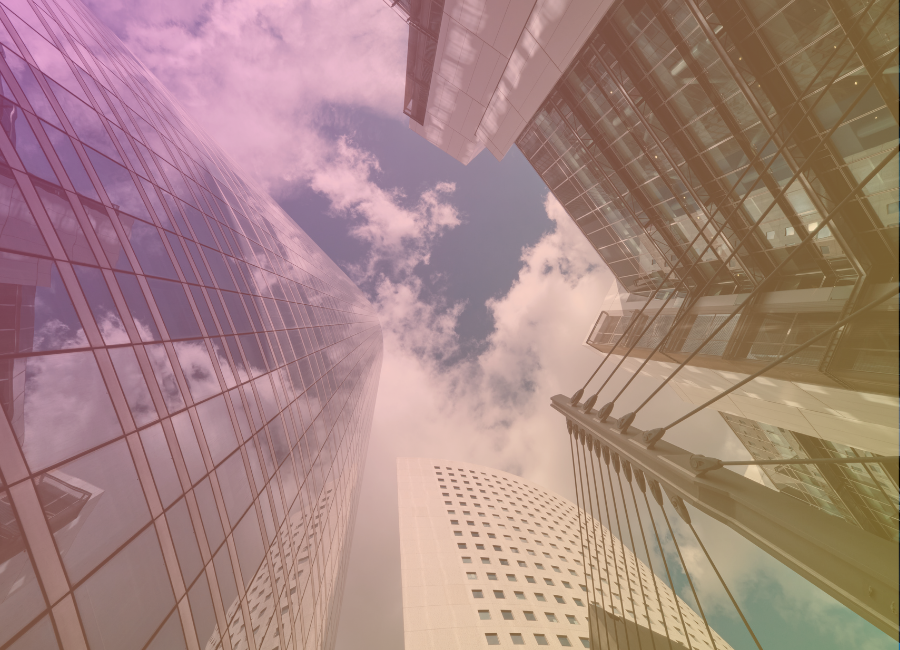
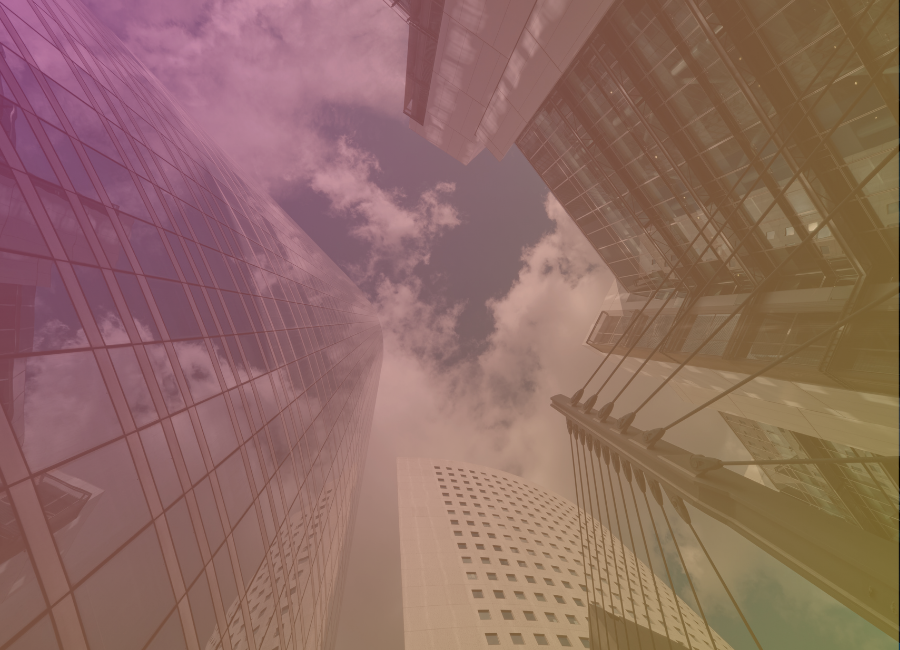
SIC V.0.1.3 { Configuração de Autenticação tela de Login }

diff --git a/frontend/src/pages/Signin/index.js b/frontend/src/pages/Signin/index.js
@@ -1,9 +1,12 @@
 import React from "react";
 import styled from "styled-components";
-import Background from "../../imagens/background2.png"
-import { Row, Col, Form, Button } from "react-bootstrap";
+import Background from "../../imagens/background3.png"
+import { Row, Col, Form, Button, Modal } from "react-bootstrap";
 import { faRightToBracket, faUserLock } from "@fortawesome/free-solid-svg-icons";
 import { FontAwesomeIcon } from "@fortawesome/react-fontawesome";
+import { useNavigate } from "react-router-dom";
+import authService from "../../services/authServices";
+import { useState } from "react";
 
 const ColLeft = styled(Col)`
     background-image: url(${Background});
@@ -18,7 +21,7 @@ const ColLeft = styled(Col)`
 
 const StyledH1 = styled.h1`
     font-weight: 700;
-    color: hsl(24, 70%, 50%);
+    color: #ff9100f5;
     font-size: 70px;
 `
 
@@ -42,7 +45,6 @@ const StyledfaRightToBracket = styled(FontAwesomeIcon)`
     margin-right: 10px
 `;
 
-
 const StyledFormControl= styled(Form.Control)`
     border-left: none;
     border-right: none;
@@ -52,7 +54,7 @@ const StyledFormControl= styled(Form.Control)`
 `;
 
 const StyledButton = styled(Button)`
-    background: hsl(24, 70%, 50%);
+    background: #ff9100f5;
     border: 0;
     &:hover{
         background: rgb(91, 0, 177);
@@ -64,7 +66,37 @@ const StyledButton = styled(Button)`
     }
 `;
 
+const StyledButtonModal = styled(Button)`
+    background: #ff9100f5;
+`;
+
 function SignIn() {
+    const navigate = useNavigate();
+    const [showModal, setShowModal] = useState(false);
+    const [email, setEmail] = useState('');
+    const [password, setPassword] = useState('');
+
+    async function handleSignIn(){
+        //chamada API
+        //Se Retorno ok, direciona para home
+        //Se não exibe mensagem para o usuario
+
+        //objeto promise
+        // axios.get('https://api.github.com/users/luizcorsini')
+        //     .then(response =>{
+        //         console.log(response.data)
+        //     })
+        //     .catch(error =>{
+        //         console.log('Ocorreu erro')
+        //     })
+        try{
+            await authService.SignIn(email, password);
+            navigate('/home');
+        } catch (error){
+            setShowModal(true);
+        }
+
+    };
     return (
         <StyleRow>
             <ColLeft 
@@ -79,11 +111,14 @@ function SignIn() {
 
                 <Form as={Col} md={8}>
                 <Row className="justify-content-md-center">
-                    <FontAwesomeIcon style={{color:'hsl(24, 70%, 50%)'}} icon={faUserLock} className="mb-3" as={Col} size="2x" md="auto"  />
+                    <FontAwesomeIcon style={{color:'#ff9100f5'}} icon={faUserLock} className="mb-3" as={Col} size="2x" md="auto"  />
                 </Row>
                     <Form.Group className="mb-3" controlId="formBasicEmail">
                         <Form.Label>E-mail</Form.Label>
-                        <StyledFormControl type="email" placeholder="Digite seu e-mail" />
+                        <StyledFormControl 
+                        value={email} 
+                        onChange={(event) => setEmail(event.target.value)} 
+                        type="email" placeholder="Digite seu e-mail" />
                         <Form.Text className="text-muted">
                         Não compartilhamos seus dados de e-mail com terceiros.
                         </Form.Text>
@@ -91,16 +126,32 @@ function SignIn() {
 
                     <Form.Group className="mb-3" controlId="formBasicPassword">
                         <Form.Label>Senha</Form.Label>
-                        <StyledFormControl type="password" placeholder="Digite sua senha" />
+                        <StyledFormControl 
+                        value={password} 
+                        onChange={(event) => setPassword(event.target.value)} 
+                        type="password" placeholder="Digite sua senha" />
                     </Form.Group>
                     <Form.Group className="mb-3" controlId="formBasicCheckbox">
                         <Form.Check type="checkbox" label="Check me out" />
                     </Form.Group>
-                    <StyledButton variant="primary" type="submit">
+                    <StyledButton onClick={handleSignIn} variant="primary" type="submit">
                         <StyledfaRightToBracket active='false' icon={faRightToBracket}></StyledfaRightToBracket><span>Entrar</span>
                     </StyledButton>
                 </Form>
-            </ColRigth>            
+            </ColRigth>
+            <Modal show={showModal} onHide={() => setShowModal(false)}>
+                <Modal.Header closeButton>
+                    <Modal.Title>Erro no Login</Modal.Title>
+                </Modal.Header>
+                <Modal.Body>
+                    Ocorreu um erro ao fazer login. Por favor, verifique suas credenciais e tente novamente.
+                </Modal.Body>
+                <Modal.Footer>
+                    <StyledButtonModal variant="warning" onClick={() => setShowModal(false)}>
+                        Fechar
+                    </StyledButtonModal>
+                </Modal.Footer>
+            </Modal>            
         </StyleRow>
     );
 }

diff --git a/frontend/src/services/authServices.js b/frontend/src/services/authServices.js
@@ -1,0 +1,24 @@
+import axios from '../utils/axios';
+
+class AuthService {
+
+    SignIn(email, password){
+        return new Promise((resolve, reject) => {
+            axios.post('/api/home/login', {email, password})
+            .then(response => {
+                if (response.data.user) {
+                    resolve(response.data.user)
+                } else {
+                    reject(response.data.error)
+                }
+            })
+            .catch(error => {
+                reject(error)
+            })
+        })
+    }
+}
+
+const authService = new AuthService();
+
+export default authService;

diff --git a/frontend/src/mock/userMock.js b/frontend/src/mock/userMock.js
@@ -1,0 +1,18 @@
+import mock from '../utils/mock';
+
+mock.onPost('/api/home/login').reply((config) => {
+    const{ email, password} = JSON.parse(config.data)
+    
+    if(email !== 'luizcorsini@luizcorsini.com.br' || password !== 'admin'){
+        return[400,{message: 'Seu e-mail ou senha estão incorretos'}]
+    }
+
+    const user ={
+        id:1,
+        name: 'Luiz Corsini',
+        username: 'luizcorsini',
+        email: 'luizcorsini@luizcorsini.com.br'
+    }
+    return [200, {user}]
+
+});

diff --git a/frontend/src/index.js b/frontend/src/index.js
@@ -8,6 +8,7 @@ import ThemeProvider from 'react-bootstrap/ThemeProvider'
 import { BrowserRouter, Route, Routes } from 'react-router-dom';
 import reportWebVitals from './reportWebVitals';
 import SignIn from './pages/Signin';
+import './mock';
 
 
 // const GlobalStyle = createGlobalStyle`

diff --git a/frontend/src/utils/mock.js b/frontend/src/utils/mock.js
@@ -1,0 +1,7 @@
+import MockAdapter from 'axios-mock-adapter';
+import axios from './axios';
+
+const instance = new MockAdapter(axios, {delayResponse: 0});
+
+export default instance;
+

diff --git a/frontend/src/utils/axios.js b/frontend/src/utils/axios.js
@@ -1,0 +1,5 @@
+import axios from 'axios';
+
+const instance = axios.create();
+
+export default instance;

diff --git a/frontend/src/mock/index.js b/frontend/src/mock/index.js
@@ -1,0 +1,1 @@
+export * from './userMock';
